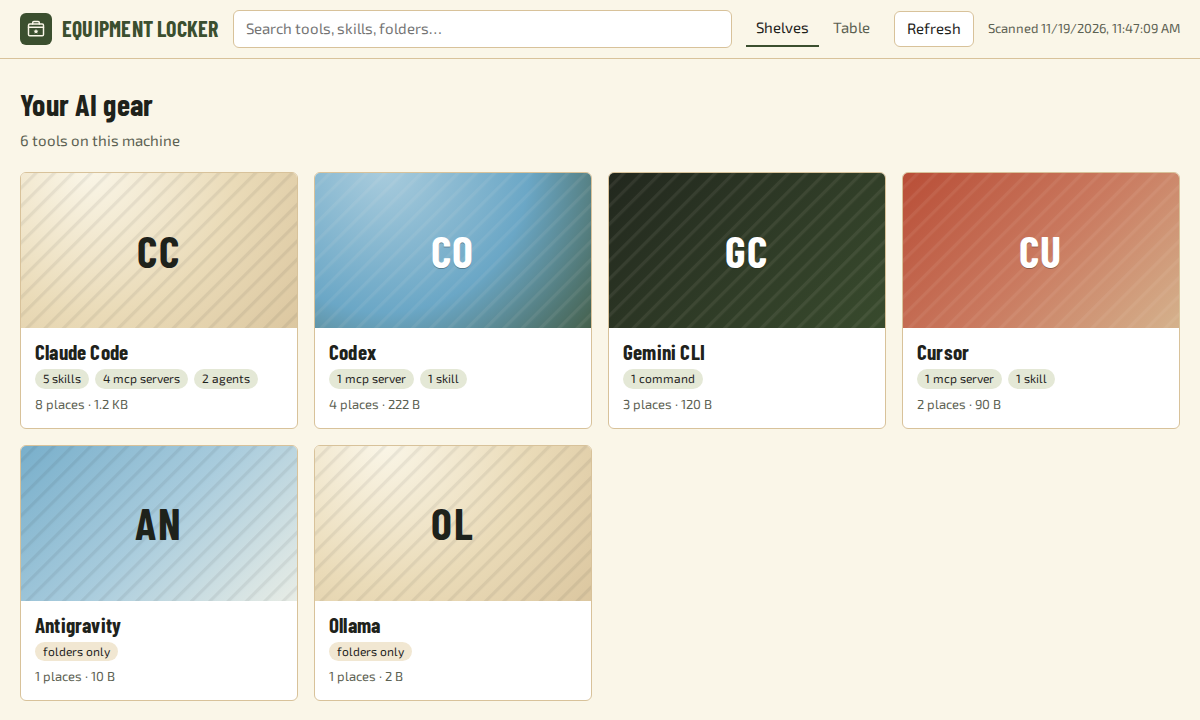
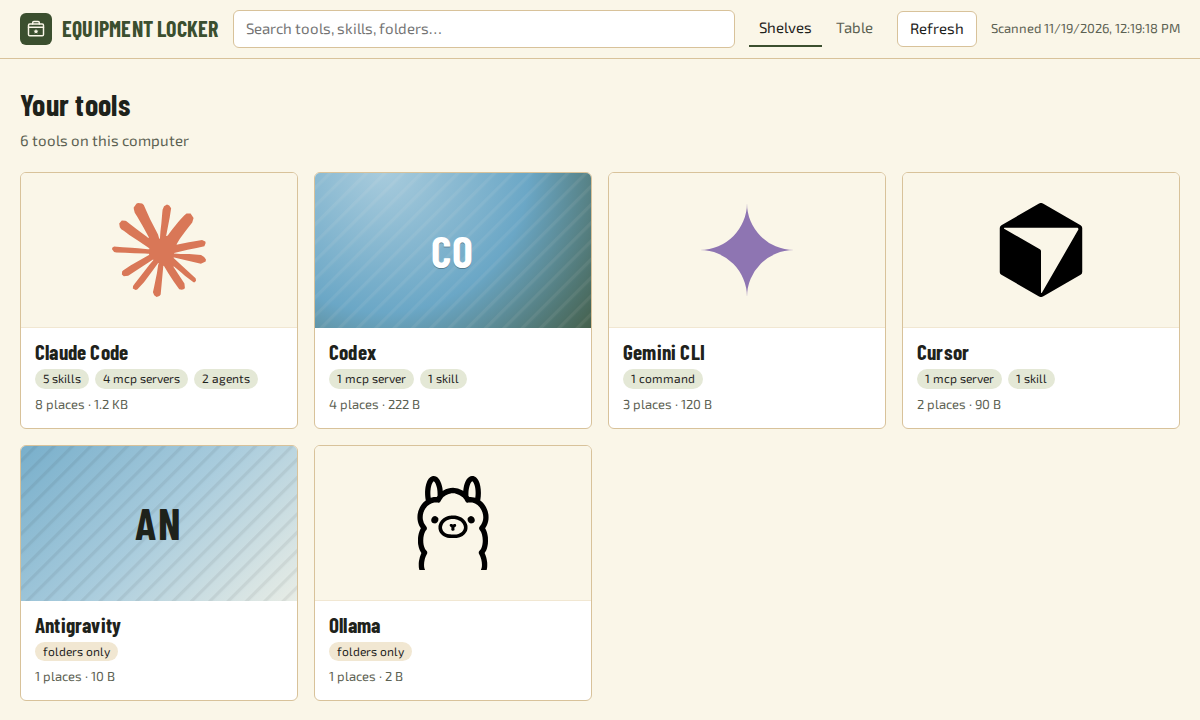
Equipment Locker 1.0.1
- "Your tools" wording on the shelves
- Known tools show their own icon in brand colours (Simple Icons, CC0);
  others keep their palette gradient
- Kind icons on item cards and headings (wrench, robot, plug, puzzle...)
  on a colour picked from the item's name

Claude-Session: https://claude.ai/code/session_01SmYBQbyTxKecXnLTyizLpM

diff --git a/src/equipment_locker/web/views.js b/src/equipment_locker/web/views.js
@@ -13,19 +13,36 @@
     return (words.length > 1 ? words[0][0] + words[1][0] : words[0].slice(0, 2)).toUpperCase();
   }
 
-  function thumb(imageId, gradient, name, light) {
-    if (imageId) return el("div", { class: "thumb" }, el("img", { src: "/api/image/" + imageId, alt: "" }));
-    const box = el("div", { class: "thumb swatch" + (light ? " on-light" : "") }, el("span", { class: "mono" }, initials(name)));
-    box.style.backgroundImage = "url(gradients/g" + String(gradient || 1).padStart(2, "0") + ".svg)";
+  // A person's own picture wins, then the tool's bundled icon, then its palette gradient with initials.
+  function thumb(t) {
+    if (t.image_id) return el("div", { class: "thumb" }, el("img", { src: "/api/image/" + t.image_id, alt: "" }));
+    if (t.icon) return el("div", { class: "thumb icon-tile" + (t.icon_dark ? " dark" : "") }, el("img", { src: t.icon, alt: "" }));
+    const box = el("div", { class: "thumb swatch" + (t.gradient_light ? " on-light" : "") },
+      el("span", { class: "mono" }, initials(t.label || t.display)));
+    box.style.backgroundImage = "url(gradients/g" + String(t.gradient || 1).padStart(2, "0") + ".svg)";
     return box;
   }
   Locker.thumb = thumb;
+
+  const KINDS = new Set(["skill", "agent", "command", "mcp_server", "plugin", "extension", "rule", "model", "workflow",
+    "output_style", "prompt", "hook"]);
+  const TILES = ["#3B4F2F", "#4E86A6", "#B4422C", "#8C7448", "#2B3026", "#6E7F4F", "#2F6680", "#9A5A3C"];
+  const hash = (s) => [...String(s)].reduce((h, c) => (h * 31 + c.charCodeAt(0)) >>> 0, 7);
+
+  // Small square with the kind's icon; its colour comes from the item's name, so neighbours differ but never shuffle.
+  function kindTile(kind, seed, small) {
+    const icon = KINDS.has(kind) ? kind : "folder";
+    const box = el("span", { class: "ktile" + (small ? " small" : "") }, el("img", { src: "icons/kinds/" + icon + ".svg", alt: "" }));
+    box.style.backgroundColor = icon === "folder" ? "#8C7448" : TILES[hash(seed) % TILES.length];
+    return box;
+  }
+  Locker.kindTile = kindTile;
 
   function toolCard(t) {
     const counts = Object.entries(t.items || {}).sort((a, b) => b[1] - a[1]).slice(0, 4)
       .map(([k, n]) => el("span", { class: "pill" }, n + " " + Locker.kindName(k).toLowerCase().replace(n === 1 ? /s$/ : /$^/, "")));
     return el("button", { class: "card", type: "button", on: { click: () => { location.hash = "#/tool/" + t.tool; } } },
-      thumb(t.image_id, t.gradient, t.label || t.display, t.gradient_light),
+      thumb(t),
       el("div", { class: "body" },
         el("h3", {}, t.is_favorite ? el("span", { class: "star", "aria-label": "favourite" }, "★ ") : null,
           t.label || t.display),
@@ -50,13 +67,13 @@
     Locker.showScan(data.scan, data.last_scan);
     const body = data.tools.length
       ? el("div", { class: "grid" }, data.tools.map(toolCard))
-      : empty("Locker's empty", data.scan && data.scan.running ? "First scan in progress…" : "Press Refresh to take stock of your AI gear.", "locker");
-    Locker.view.replaceChildren(...head("Your AI gear", data.tools.length + " tools on this machine"), body, pinForm());
+      : empty("Locker's empty", data.scan && data.scan.running ? "First scan in progress…" : "Press Refresh to take stock of your AI tools.", "locker");
+    Locker.view.replaceChildren(...head("Your tools", data.tools.length + " tools on this computer"), body, pinForm());
   }
 
   function itemCard(it) {
-    return el("button", { class: "card", type: "button", on: { click: () => Locker.detail.open("item", it.id) } },
-      el("div", { class: "body" },
+    return el("button", { class: "card row", type: "button", on: { click: () => Locker.detail.open("item", it.id) } },
+      kindTile(it.kind, it.name), el("div", { class: "body" },
         el("h3", {}, it.is_favorite ? el("span", { class: "star" }, "★ ") : null, it.label || it.name),
         it.description ? el("div", { class: "desc" }, it.description) : el("div", { class: "meta" }, "No description")));
   }
@@ -65,8 +82,8 @@
     const pills = [el("span", { class: "pill" }, loc.category)];
     if (loc.origin === "vendored") pills.push(el("span", { class: "pill sand" }, "third-party"));
     if (loc.presence !== "present") pills.push(el("span", { class: "pill red" }, loc.presence));
-    return el("button", { class: "card", type: "button", on: { click: () => Locker.detail.open("location", loc.id) } },
-      el("div", { class: "body" },
+    return el("button", { class: "card row", type: "button", on: { click: () => Locker.detail.open("location", loc.id) } },
+      kindTile("folder", loc.path), el("div", { class: "body" },
         el("div", { class: "path" }, loc.path),
         el("div", { class: "counts" }, pills, loc.size_bytes !== null ? el("span", { class: "meta" }, Locker.size(loc.size_bytes, loc.size_over)) : null)));
   }
@@ -77,7 +94,7 @@
     Locker.summary = summary;
     const info = summary.tools.find((t) => t.tool === code) || { display: code };
     const sections = data.groups.map((g) => el("section", {},
-      el("h2", {}, Locker.kindName(g.kind) + " (" + g.items.length + ")"),
+      el("h2", { class: "kind-head" }, kindTile(g.kind, g.kind, true), Locker.kindName(g.kind) + " (" + g.items.length + ")"),
       el("div", { class: "grid compact" }, g.items.map(itemCard))));
     const own = data.locations.filter((l) => l.origin !== "vendored");
     const vendored = data.locations.filter((l) => l.origin === "vendored");
@@ -105,7 +122,8 @@
 
   async function table() {
     const { rows } = await Locker.api("table");
-    const cols = [["tool", "Tool"], ["kind", "Kind", (v) => Locker.kindName(v)], ["name", "Name"], ["path", "Path"],
+    const kindCell = (v, r) => el("span", { class: "kcell" }, kindTile(r.type === "item" ? v : "folder", r.name, true), Locker.kindName(v));
+    const cols = [["tool", "Tool"], ["kind", "Kind", kindCell], ["name", "Name"], ["path", "Path"],
       ["size_bytes", "Size", (v) => Locker.size(v)]];
     Locker.view.replaceChildren(...head("Everything", rows.length + " rows · click a column to sort"),
       rows.length ? sortable(rows, cols) : empty("Nothing yet", "Run a scan to fill the locker."));
@@ -118,7 +136,7 @@
     const cols = [["title", "Name"], ["kind", "Kind"], ["tool", "Tool"], ["path", "Path"]];
     Locker.view.replaceChildren(...head("Search: " + q, results.length + " matches"),
       rows.length ? sortable(rows, cols)
-        : empty("No gear matches", "Check the spelling or clear the search to see the whole locker."));
+        : empty("Nothing matches", "Check the spelling or clear the search to see every tool."));
   }
 
   Locker.views = { shelves, tool, table, search };

diff --git a/src/equipment_locker/web/app.css b/src/equipment_locker/web/app.css
@@ -40,6 +40,19 @@ main > h1 { margin: 0 0 4px; font-size: 30px; }
 .thumb img { width: 100%; height: 100%; object-fit: cover; }
 .thumb svg { width: 46px; height: 46px; opacity: .75; }
 .swatch { background-size: cover; background-position: center; }
+.icon-tile { background: var(--cream); border-bottom: 1px solid var(--sand-tint); }
+.icon-tile img { width: 34%; height: auto; object-fit: contain; }
+.icon-tile.dark { background: var(--ink); }
+.card.row { flex-direction: row; align-items: flex-start; gap: 0; }
+.card.row .body { flex: 1; min-width: 0; }
+.ktile { flex: none; display: grid; place-items: center; width: 44px; height: 44px; margin: 12px 0 12px 12px; border-radius: var(--radius); }
+.ktile img { width: 24px; height: 24px; }
+.ktile.small { width: 24px; height: 24px; margin: 0; border-radius: 4px; }
+.ktile.small img { width: 15px; height: 15px; }
+.kind-head { display: flex; align-items: center; gap: 8px; }
+.kcell { display: inline-flex; align-items: center; gap: 6px; }
+.panel .ktile { width: 56px; height: 56px; margin: 0 0 12px; }
+.panel .ktile img { width: 30px; height: 30px; }
 .mono { font: 700 44px/1 "Barlow Condensed", "Arial Narrow", sans-serif; letter-spacing: .04em; color: var(--white);
   text-shadow: 0 1px 0 rgba(30, 34, 27, .35); }
 .on-light .mono { color: var(--ink); text-shadow: none; }

diff --git a/src/equipment_locker/web/detail.js b/src/equipment_locker/web/detail.js
@@ -77,7 +77,7 @@
     const target = { kind, id: kind === "tool" ? id : Number(id) };
     const title = (d.annotation && d.annotation.label) || d.name || d.display || (d.path || "").split(/[\\/]/).pop();
     const parts = [el("button", { class: "quiet close", type: "button", on: { click: close } }, "Close"),
-      kind === "tool" && !d.image_id ? Locker.thumb(null, d.gradient, d.display, d.gradient_light) : null,
+      kind === "tool" && !d.image_id ? Locker.thumb(d) : kind === "item" ? Locker.kindTile(d.kind, d.name) : null,
       el("h2", {}, title), facts(d, kind), ...editors(d, target, () => open(kind, id)), ...(history(d) || [])];
     panel.replaceChildren(...parts.filter(Boolean));
     panel.hidden = false;

diff --git a/src/equipment_locker/api.py b/src/equipment_locker/api.py
@@ -1,13 +1,28 @@
 # SPDX-License-Identifier: MIT
 """Read and write operations behind the local page. Each takes a connection and returns JSON-ready data."""
 import base64
+import re
 import zlib
+from functools import cache
+from pathlib import Path
 
 from . import annotations as ann
 from . import search
 
+TOOL_ICONS = Path(__file__).resolve().parent / "web" / "icons" / "tools"
 GRADIENTS = 10
 LIGHT_GRADIENTS = {2, 5, 9}  # pale blends: lettering on them is dark
+
+
+@cache
+def icon_for(code):
+    """(url, dark_tile) for a bundled tool icon, or (None, False). Very light brand colours sit on a dark tile."""
+    path = TOOL_ICONS / f"{code}.svg"
+    if not path.is_file():
+        return None, False
+    m = re.search(r'fill="#([0-9A-Fa-f]{6})"', path.read_text())
+    r, g, b = (int(m.group(1)[i:i + 2], 16) / 255 for i in (0, 2, 4)) if m else (0, 0, 0)
+    return f"icons/tools/{code}.svg", 0.2126 * r + 0.7152 * g + 0.0722 * b > 0.6
 
 
 def gradient_for(code):
@@ -39,6 +54,7 @@ def summary(conn):
         t["items"] = counts.get(t["tool"], {})
         t["gradient"] = gradient_for(t["tool"])
         t["gradient_light"] = t["gradient"] in LIGHT_GRADIENTS
+        t["icon"], t["icon_dark"] = icon_for(t["tool"])
     last = conn.execute("""SELECT r.id, r.started, r.finished, s.code AS status FROM scan_run r
                            JOIN ref_run_status s ON s.id = r.status_id ORDER BY r.id DESC LIMIT 1""").fetchone()
     tools.sort(key=lambda t: (-(t["is_favorite"] or 0), -t["present"], t["tool"]))
@@ -103,6 +119,7 @@ def detail(conn, kind, ident):
     if kind == "tool":
         out["gradient"] = gradient_for(ident)
         out["gradient_light"] = out["gradient"] in LIGHT_GRADIENTS
+        out["icon"], out["icon_dark"] = icon_for(out["tool"])
     if kind == "location":
         out["history"] = _rows(conn, """SELECT c.code AS change, lc.at, lc.size_bytes FROM location_change lc
                                         JOIN ref_change c ON c.id = lc.change_id WHERE lc.location_id = ?

diff --git a/tests/test_icons.py b/tests/test_icons.py
@@ -1,0 +1,44 @@
+# SPDX-License-Identifier: MIT
+"""Bundled icons: tool glyphs are listed in SOURCES.md and reach the API; every item kind has an icon."""
+import re
+import unittest
+import xml.etree.ElementTree as ET
+
+import helpers
+
+from equipment_locker import api, db
+
+WEB = helpers.ROOT / "src" / "equipment_locker" / "web" / "icons"
+KINDS = ["skill", "agent", "command", "mcp_server", "plugin", "extension", "rule", "model", "workflow",
+         "output_style", "prompt", "hook", "folder"]
+
+
+class TestIcons(unittest.TestCase):
+    def test_tool_icons_valid_and_sourced(self):
+        sources = (WEB / "tools" / "SOURCES.md").read_text()
+        files = sorted((WEB / "tools").glob("*.svg"))
+        self.assertGreaterEqual(len(files), 10)
+        for f in files:
+            root = ET.parse(f).getroot()
+            self.assertRegex(root.get("fill") or "", r"^#[0-9A-Fa-f]{6}$", f.name)
+            self.assertIn(f"`{f.name}`", sources)
+
+    def test_every_kind_has_an_icon(self):
+        for kind in KINDS:
+            ET.parse(WEB / "kinds" / f"{kind}.svg")
+
+    def test_icon_for(self):
+        self.assertEqual(api.icon_for("claude-code")[0], "icons/tools/claude-code.svg")
+        self.assertTrue(api.icon_for("huggingface")[1])   # yellow glyph sits on a dark tile
+        self.assertFalse(api.icon_for("cursor")[1])
+        self.assertEqual(api.icon_for("codex"), (None, False))
+
+    def test_summary_carries_icon(self):
+        conn = db.open_db(":memory:")
+        self.addCleanup(conn.close)
+        self.assertEqual(api.summary(conn)["tools"], [])
+        self.assertTrue(re.match(r"icons/tools/", api.icon_for("ollama")[0]))
+
+
+if __name__ == "__main__":
+    unittest.main()

diff --git a/src/equipment_locker/__init__.py b/src/equipment_locker/__init__.py
@@ -1,3 +1,3 @@
 # SPDX-License-Identifier: MIT
 """Equipment Locker: a visual dashboard of your AI tooling."""
-__version__ = "1.0.0"
+__version__ = "1.0.1"

diff --git a/src/equipment_locker/web/icons/tools/SOURCES.md b/src/equipment_locker/web/icons/tools/SOURCES.md
@@ -1,0 +1,26 @@
+# Tool icons
+
+Glyphs from [Simple Icons](https://simpleicons.org) 16.36.0 (`simple-icons` npm package), shown in each brand's own
+colour to identify the tool. The icon data is CC0 1.0 unless noted. Product names and logos are trademarks of their
+owners; showing them here implies no endorsement. Brands with published logo guidelines are linked; the icons are used
+unmodified apart from size and their official colour.
+
+| File | Brand | Simple Icons slug | Colour | Licence | Guidelines | Source |
+|---|---|---|---|---|---|---|
+| `claude-code.svg` | Claude | `claude` | `#D97757` | CC0 1.0 | - | https://claude.ai |
+| `claude-desktop.svg` | Claude | `claude` | `#D97757` | CC0 1.0 | - | https://claude.ai |
+| `claude.svg` | Claude | `claude` | `#D97757` | CC0 1.0 | - | https://claude.ai |
+| `gemini-cli.svg` | Google Gemini | `googlegemini` | `#8E75B2` | CC0 1.0 | - | https://gemini.google.com |
+| `cursor.svg` | Cursor | `cursor` | `#000000` | CC0 1.0 | - | https://cursor.com/brand |
+| `copilot.svg` | GitHub Copilot | `githubcopilot` | `#000000` | MIT | - | https://primer.style/foundations/icons/copilot-24 |
+| `copilot-cli.svg` | GitHub Copilot | `githubcopilot` | `#000000` | MIT | - | https://primer.style/foundations/icons/copilot-24 |
+| `windsurf.svg` | Windsurf | `windsurf` | `#0B100F` | CC0 1.0 | https://windsurf.com/brand | https://windsurf.com/brand |
+| `cline.svg` | Cline | `cline` | `#18181B` | CC0 1.0 | - | https://cline.bot/assets/branding/logos/cline-wordmark-black.svg |
+| `opencode.svg` | OpenCode | `opencode` | `#000000` | CC0 1.0 | - | https://github.com/anomalyco/opencode/blob/1251a870cb384543c150c4a72fb101b55eec971b/packages/identity/mark.svg |
+| `qwen-code.svg` | QWen | `qwen` | `#6950EF` | CC0 1.0 | - | https://qwen.ai |
+| `ollama.svg` | Ollama | `ollama` | `#000000` | CC0 1.0 | - | https://github.com/ollama/ollama/issues/2152#issuecomment-1905286922 |
+| `lmstudio.svg` | LM Studio | `lmstudio` | `#000000` | CC0 1.0 | - | https://files.lmstudio.ai/lmstudio_icon2.svg |
+| `huggingface.svg` | Hugging Face | `huggingface` | `#FFD21E` | CC0 1.0 | https://huggingface.co/brand | https://huggingface.co/brand |
+| `npm.svg` | npm | `npm` | `#CB3837` | CC0 1.0 | https://docs.npmjs.com/policies/logos-and-usage | https://www.npmjs.com |
+| `uv.svg` | uv | `uv` | `#DE5FE9` | CC0 1.0 | - | https://docs.astral.sh/uv/ |
+| `pipx.svg` | pipx | `pipx` | `#2CFFAA` | CC0 1.0 | - | https://github.com/pypa/pipx/blob/fc9c95349cfcec1d886c26b70329257de53e10cb/logo.svg |

diff --git a/README.md b/README.md
@@ -1,7 +1,7 @@
 <p align="center"><img src="docs/assets/hero.webp" alt="Equipment Locker: supply shelves with crates labelled skills, agents, MCP, plugins and more" width="820"></p>
 
 <h1 align="center">Equipment Locker</h1>
-<p align="center"><b>Store it. Find it.</b> A display cabinet for your AI gear.</p>
+<p align="center"><b>Store it. Find it.</b> A display cabinet for your AI tools.</p>
 
 Equipment Locker takes stock of the AI tools on your computer (Claude Code, Claude Desktop, Codex, ChatGPT,
 Antigravity, Gemini CLI, Cursor, Copilot, local models and more) and shows what you have and where it lives:
@@ -32,7 +32,8 @@ Prefer the terminal? `python3 -m equipment_locker scan` fills the same catalogue
 - **Search** that ignores case and punctuation: `code review`, `Code-Review` and `code_review` all match.
 - **Your labels**: notes (with history), tags, favourites and pictures, kept in one SQLite file.
 - **Pinned folders** for anything the built-in list does not know about.
-- **A colour of its own** for every tool without a picture: ten palette gradients, the same one every time.
+- **Recognisable tools**: known tools show their own icon; the rest get one of ten palette gradients.
+- **Kinds at a glance**: a wrench for skills, a robot for agents, a plug for MCP servers, each on its own colour.
 
 ## Ask it from an LLM (MCP)
 Equipment Locker includes a small MCP server, so Claude, a local model or any MCP client can look things up in
@@ -75,5 +76,7 @@ Add `--read-only` to hide the three labelling tools. The server only serves the 
 <p align="center"><img src="docs/assets/palette.svg" alt="Palette: field olive, warm cream, khaki sand, muted sky, signal red, deep charcoal" width="600"></p>
 
 ## License
-MIT. See `LICENSE`. Equipment Locker was built with AI assistance (Claude). Bundled fonts (Barlow Condensed, Exo 2) are under the SIL Open Font License; see
+MIT. See `LICENSE`. Equipment Locker was built with AI assistance (Claude). Product names and logos are
+trademarks of their owners and are shown only to identify the tools; no endorsement is implied (see
+`src/equipment_locker/web/icons/tools/SOURCES.md`). Bundled fonts (Barlow Condensed, Exo 2) are under the SIL Open Font License; see
 `src/equipment_locker/web/fonts/`.

diff --git a/THIRD_PARTY_NOTICES.md b/THIRD_PARTY_NOTICES.md
@@ -7,4 +7,7 @@ Equipment Locker's own code, data and artwork are under the MIT License (see `LI
 | Barlow Condensed (font) | `src/equipment_locker/web/fonts/barlow-condensed-700.woff2` | SIL Open Font License 1.1, `OFL-BarlowCondensed.txt` |
 | Exo 2 (font) | `src/equipment_locker/web/fonts/exo2-variable.woff2` | SIL Open Font License 1.1, `OFL-Exo2.txt` |
 
-No other third-party code is bundled. Python's standard library is the only runtime dependency.
+| Tool icons (17 glyphs) | `src/equipment_locker/web/icons/tools/*.svg` | Simple Icons 16.36.0: CC0 1.0 (GitHub Copilot glyph: MIT); per-icon sources in `SOURCES.md` there |
+
+Product names and logos are trademarks of their owners. They are shown only to identify each tool; no endorsement is
+implied. No other third-party code is bundled. Python's standard library is the only runtime dependency.

diff --git a/CHANGELOG.md b/CHANGELOG.md
@@ -1,5 +1,12 @@
 # Changelog
 
+## 1.0.1 (2026-11-19)
+- The shelves now say **Your tools** (was "Your AI gear").
+- Known tools show their own icon in brand colours (Claude, Gemini, Cursor, GitHub Copilot, Windsurf, Cline,
+  OpenCode, Qwen, Ollama, LM Studio, Hugging Face, npm, uv, pipx); other tools keep their palette gradient.
+- Item cards and section headings show a kind icon (wrench for skills, robot for agents, plug for MCP servers,
+  puzzle for plugins, and more) on a colour picked from the item's name.
+
 ## 1.0.0 (2026-11-19)
 First public release.
 

diff --git a/docs/wiki/Use-with-an-LLM.md b/docs/wiki/Use-with-an-LLM.md
@@ -1,7 +1,7 @@
 # Use with an LLM (MCP)
 
 Equipment Locker ships a small [MCP](https://modelcontextprotocol.io) server. Any MCP client (Claude Code, Claude
-Desktop, a local model runner) can ask it what AI gear you have. It answers from the catalogue only; it never opens
+Desktop, a local model runner) can ask it which AI tools you have. It answers from the catalogue only; it never opens
 your tool files.
 
 ## Start it
